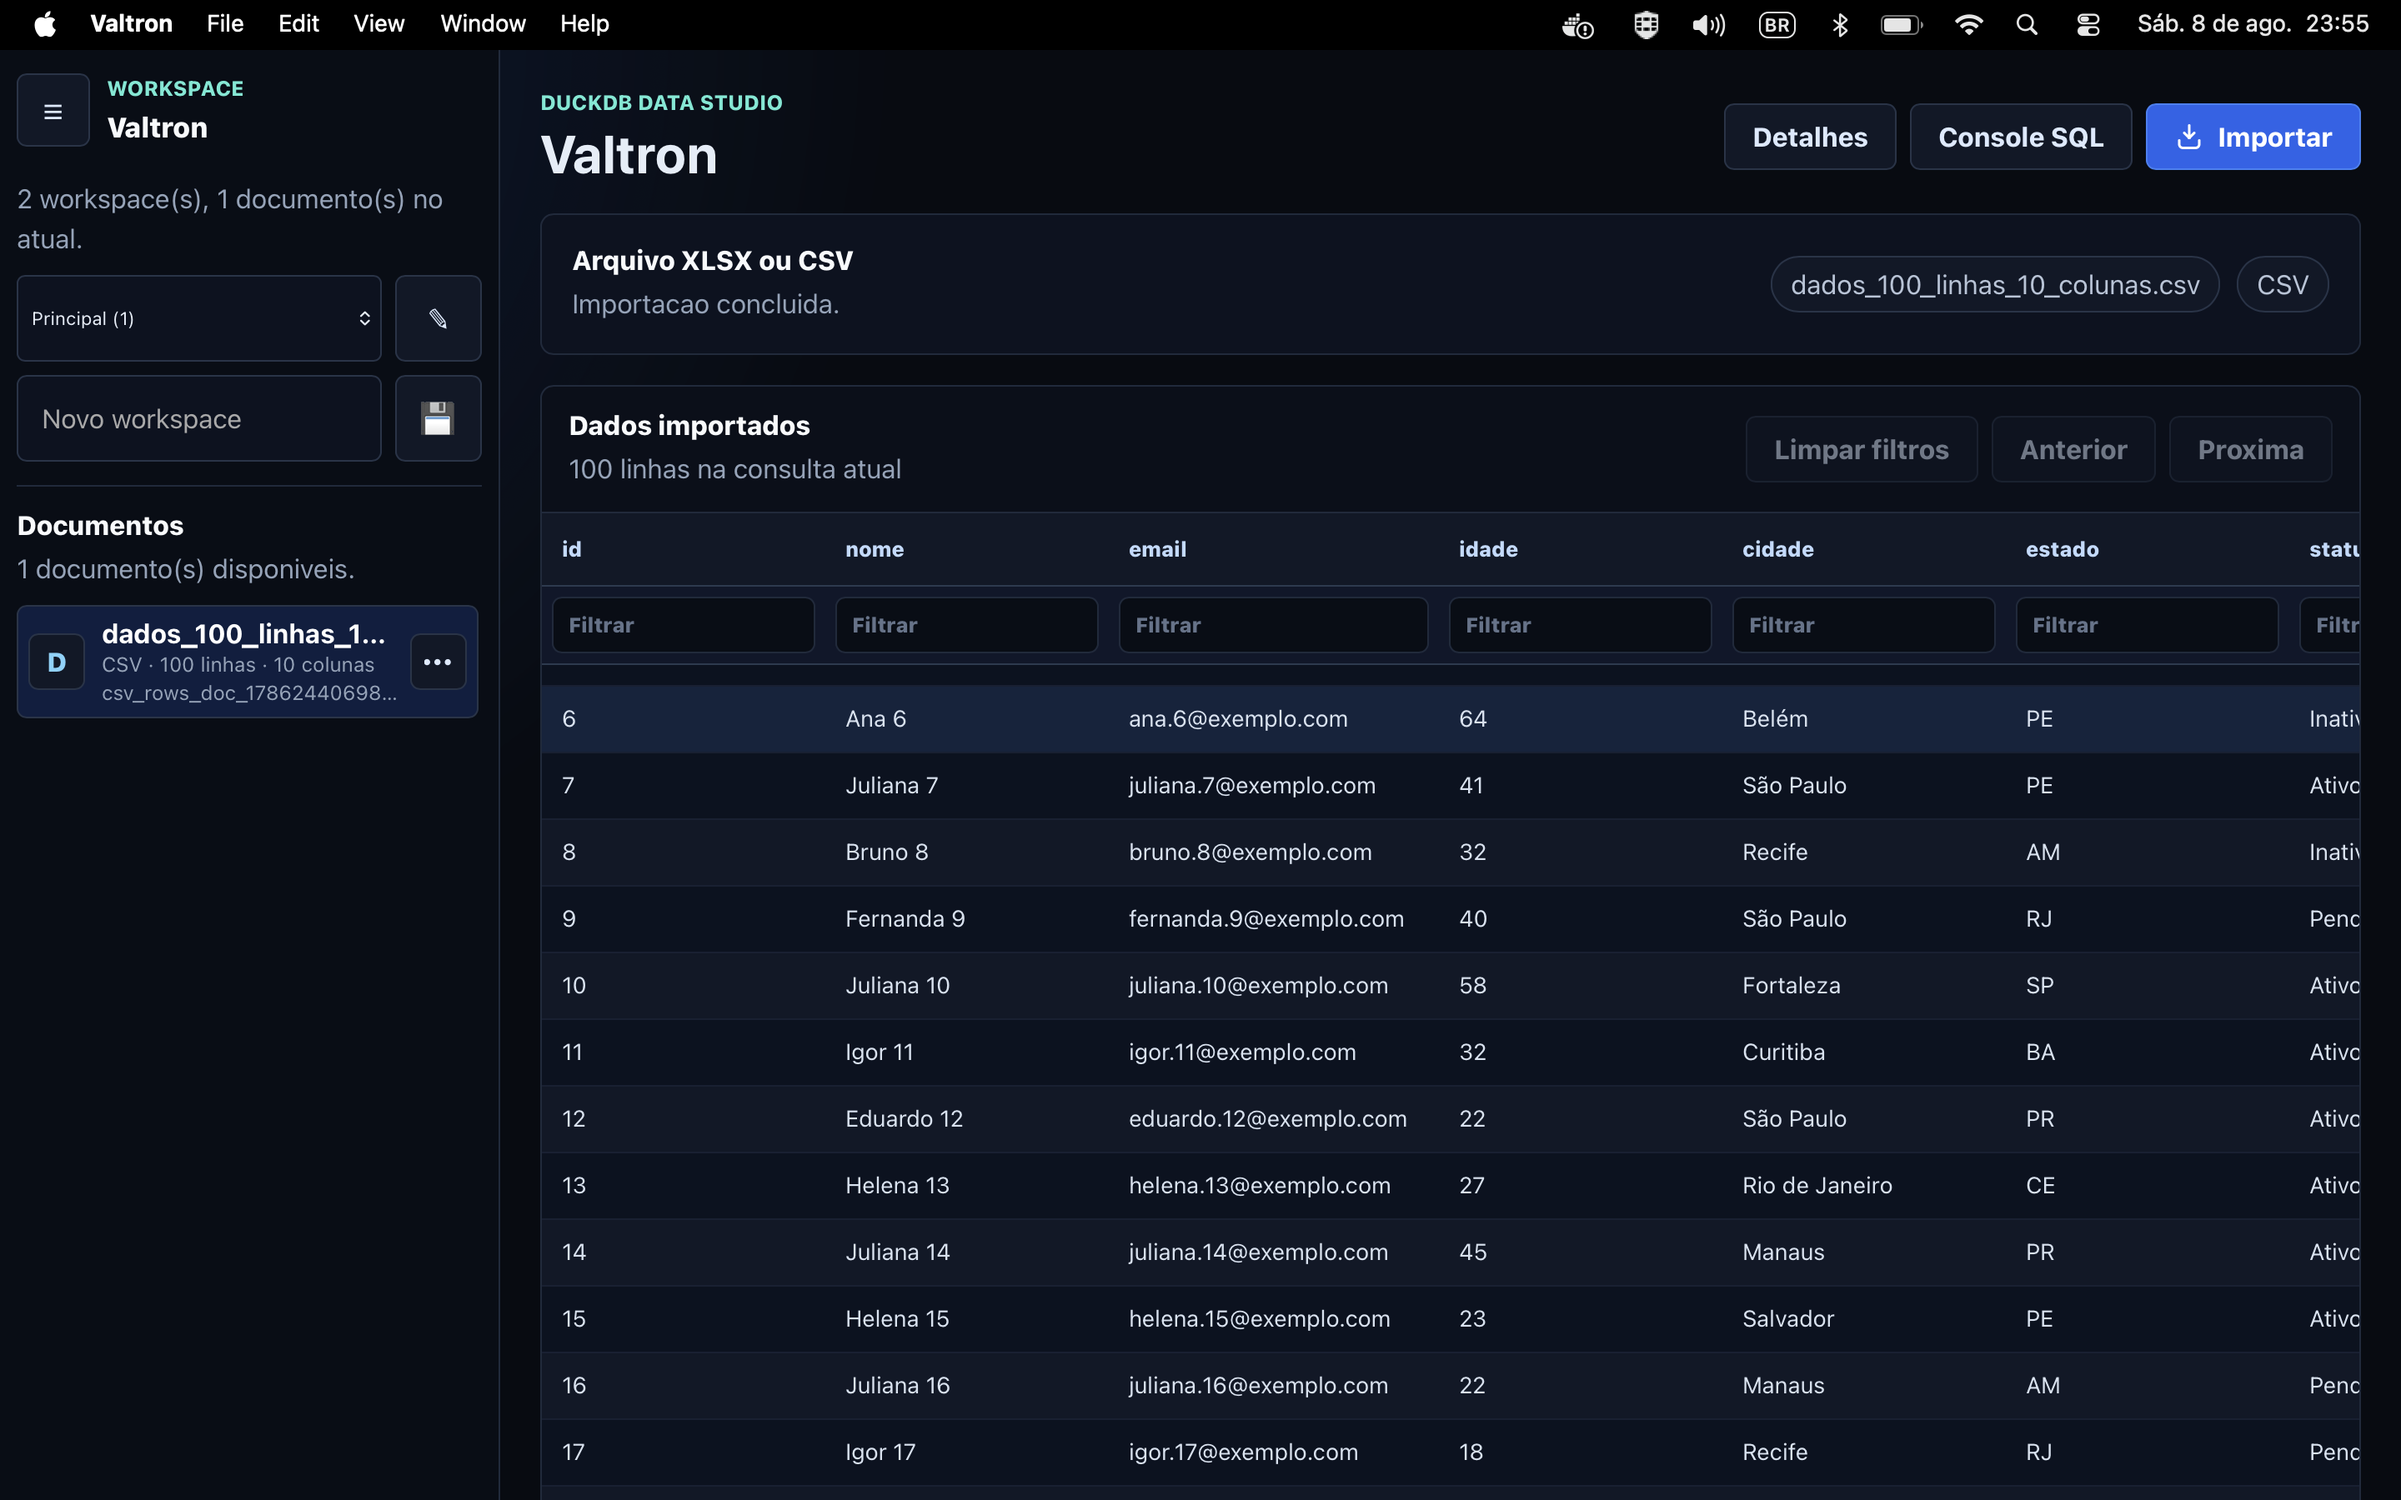
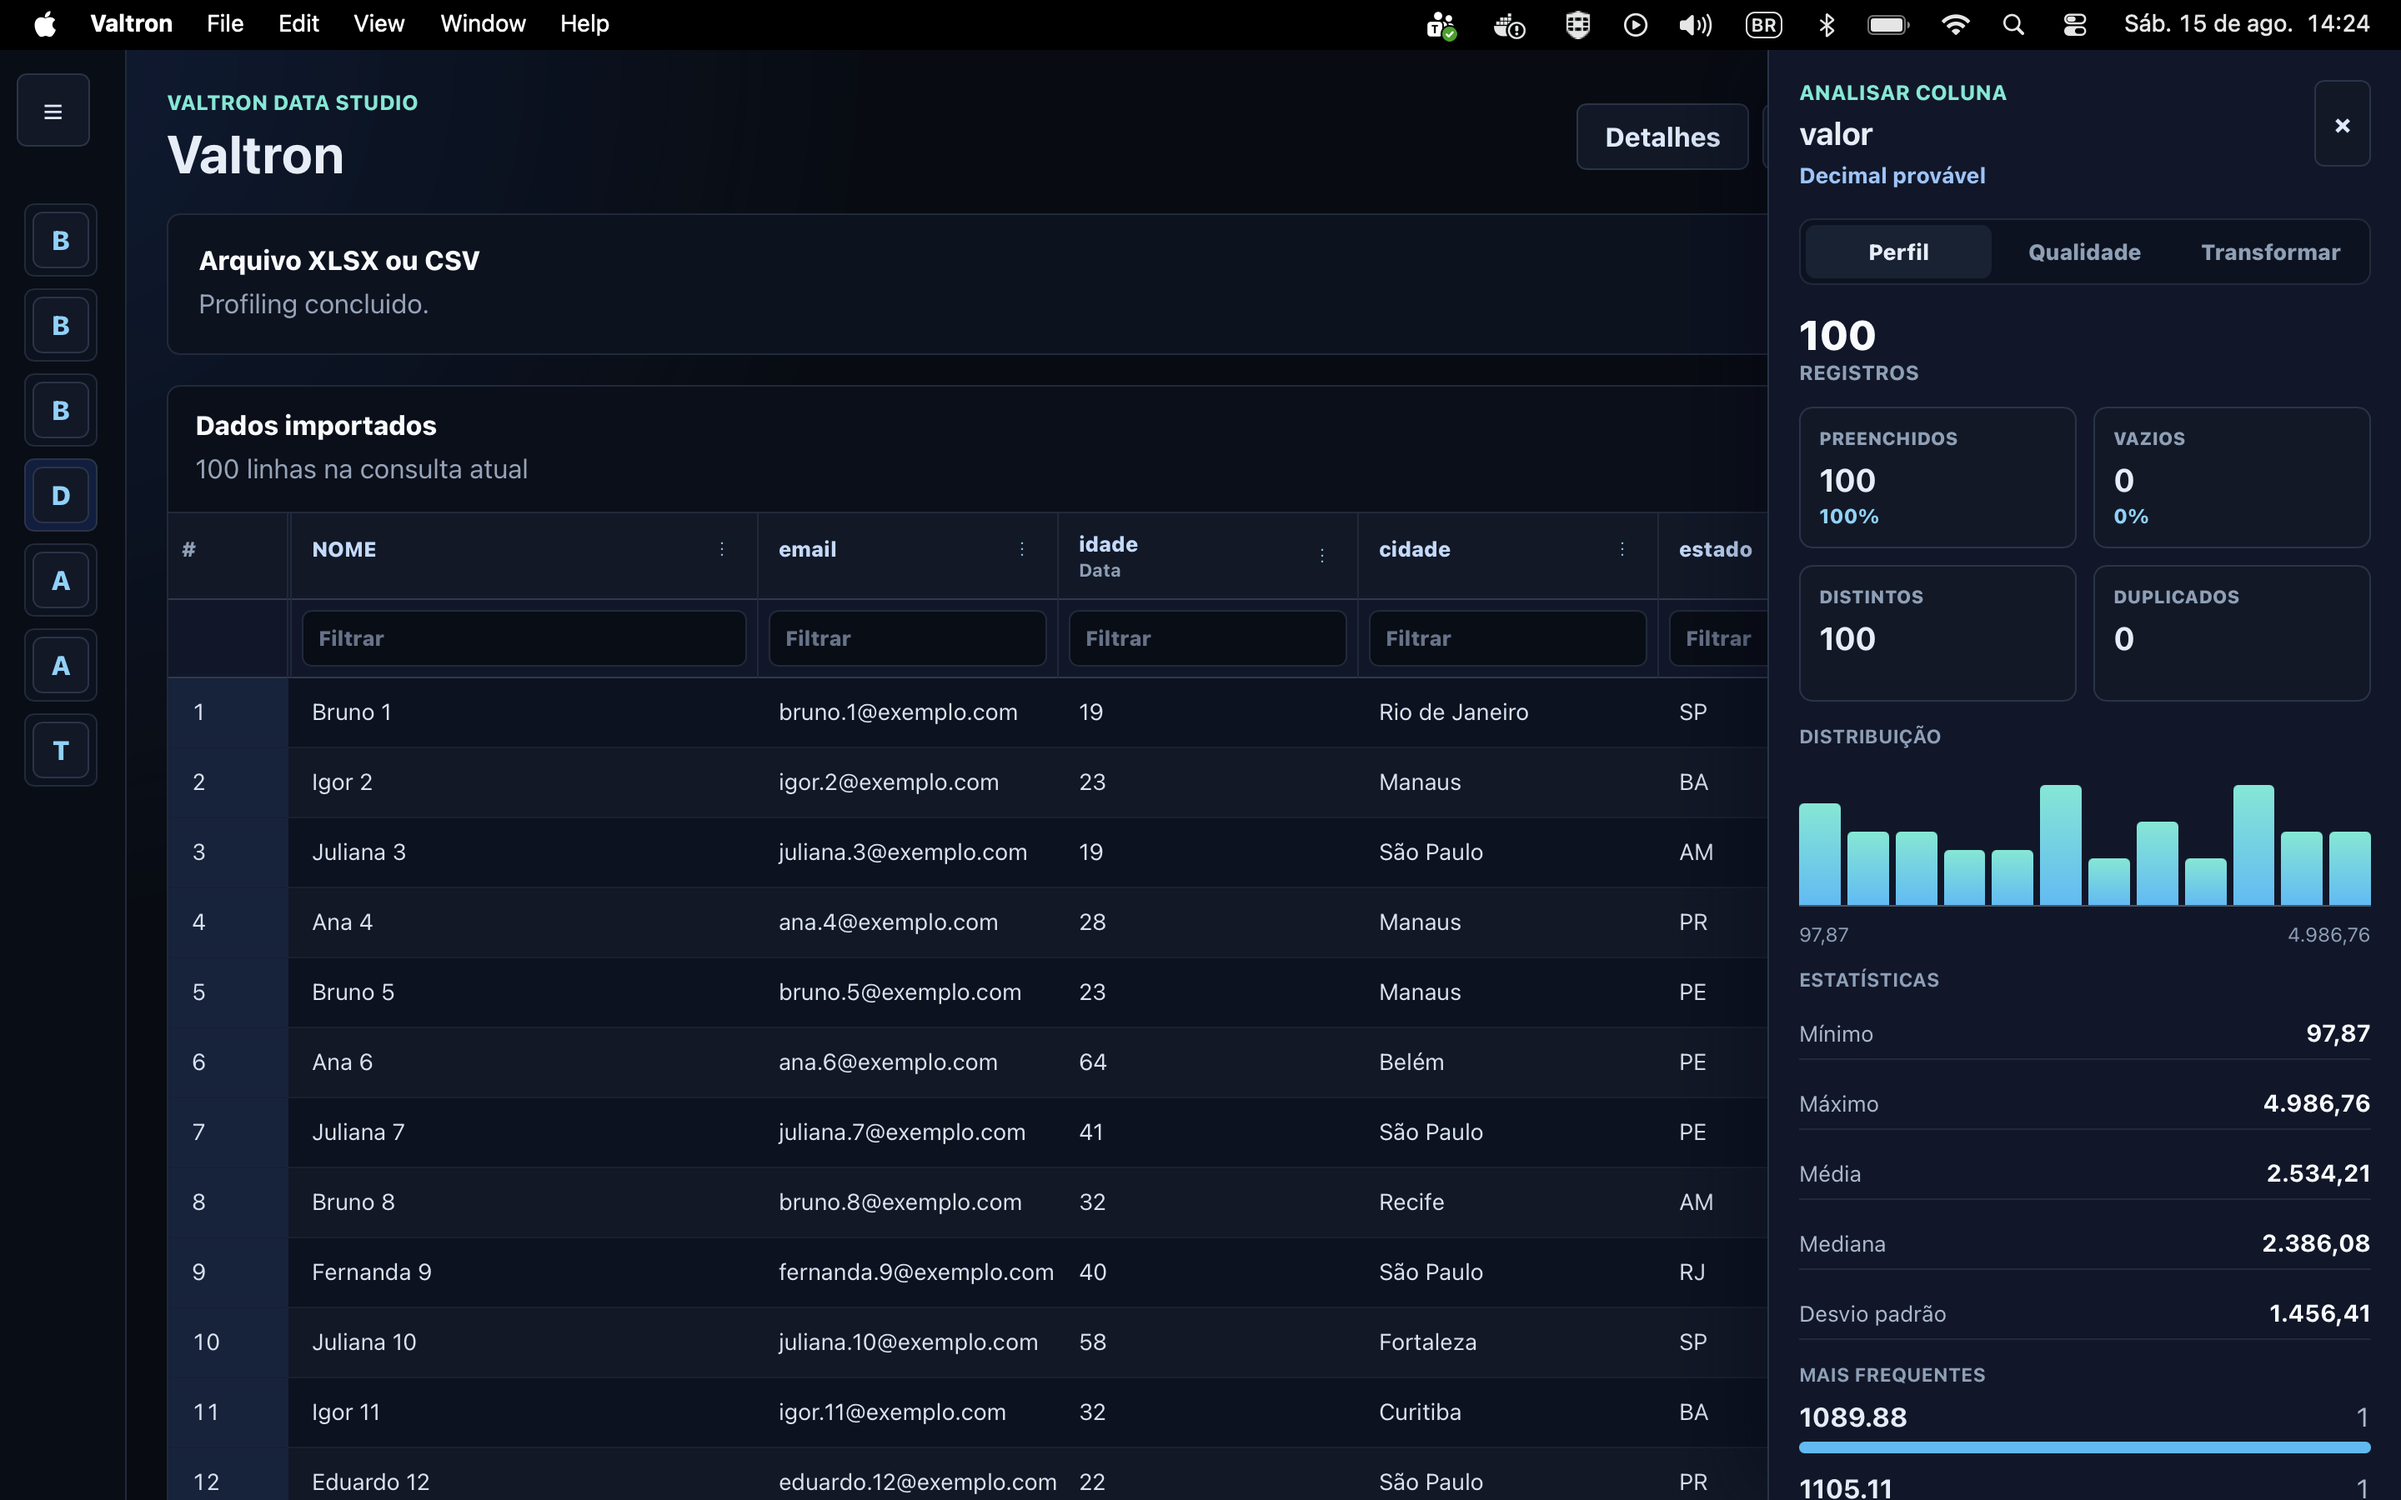
Atualiza screenshots da landing

diff --git a/docs/index.html b/docs/index.html
@@ -749,8 +749,8 @@
               <img
                 src="images/valtron-interface-compacta.png"
                 alt="Interface do Valtron com documento importado, grid de dados, métricas e painel de análise"
-                width="2864"
-                height="1800"
+                width="1916"
+                height="1080"
               />
             </button>
           </figure>
@@ -984,8 +984,8 @@
                 <img
                   src="images/valtron-interface-compacta.png"
                   alt="Grid principal de dados importados no Valtron"
-                  width="2864"
-                  height="1800"
+                  width="1916"
+                  height="1080"
                   loading="lazy"
                 />
               </button>
@@ -995,7 +995,7 @@
               <button class="image-button" type="button" data-slide="1" aria-label="Abrir profiling e quality ampliados">
                 <img
                   src="images/valtron-interface-workspace.png"
-                  alt="Valtron com painel lateral de workspaces e documentos aberto"
+                  alt="Interface do Valtron com painel de profiling aberto"
                   width="2880"
                   height="1800"
                   loading="lazy"
@@ -1004,12 +1004,12 @@
               <figcaption class="caption"><strong>Profiling e Quality.</strong> Analise uma coluna e chegue diretamente aos registros problemáticos.</figcaption>
             </figure>
             <figure class="capture">
-              <button class="image-button" type="button" data-slide="0" aria-label="Abrir transformações ampliadas">
+              <button class="image-button" type="button" data-slide="2" aria-label="Abrir transformações ampliadas">
                 <img
-                  src="images/valtron-interface-compacta.png"
-                  alt="Interface do Valtron com dados preparados para transformação"
-                  width="2864"
-                  height="1800"
+                  src="images/valtron-interface-transformacoes.png"
+                  alt="Interface do Valtron com painel de transformações aberto"
+                  width="1920"
+                  height="1079"
                   loading="lazy"
                 />
               </button>
@@ -1168,7 +1168,7 @@
         </figure>
         <div class="modal-controls">
           <button class="icon-button" type="button" id="modal-prev" aria-label="Imagem anterior">‹</button>
-          <span id="modal-counter" aria-live="polite">1 de 2</span>
+          <span id="modal-counter" aria-live="polite">1 de 3</span>
           <button class="icon-button" type="button" id="modal-next" aria-label="Próxima imagem">›</button>
         </div>
       </div>
@@ -1183,8 +1183,13 @@
         },
         {
           src: "images/valtron-interface-workspace.png",
-          alt: "Valtron com painel lateral de workspaces e documentos aberto",
-          title: "Workspaces e documentos",
+          alt: "Interface do Valtron com painel de profiling aberto",
+          title: "Profiling e Quality",
+        },
+        {
+          src: "images/valtron-interface-transformacoes.png",
+          alt: "Interface do Valtron com painel de transformações aberto",
+          title: "Transformações",
         },
       ];
 
